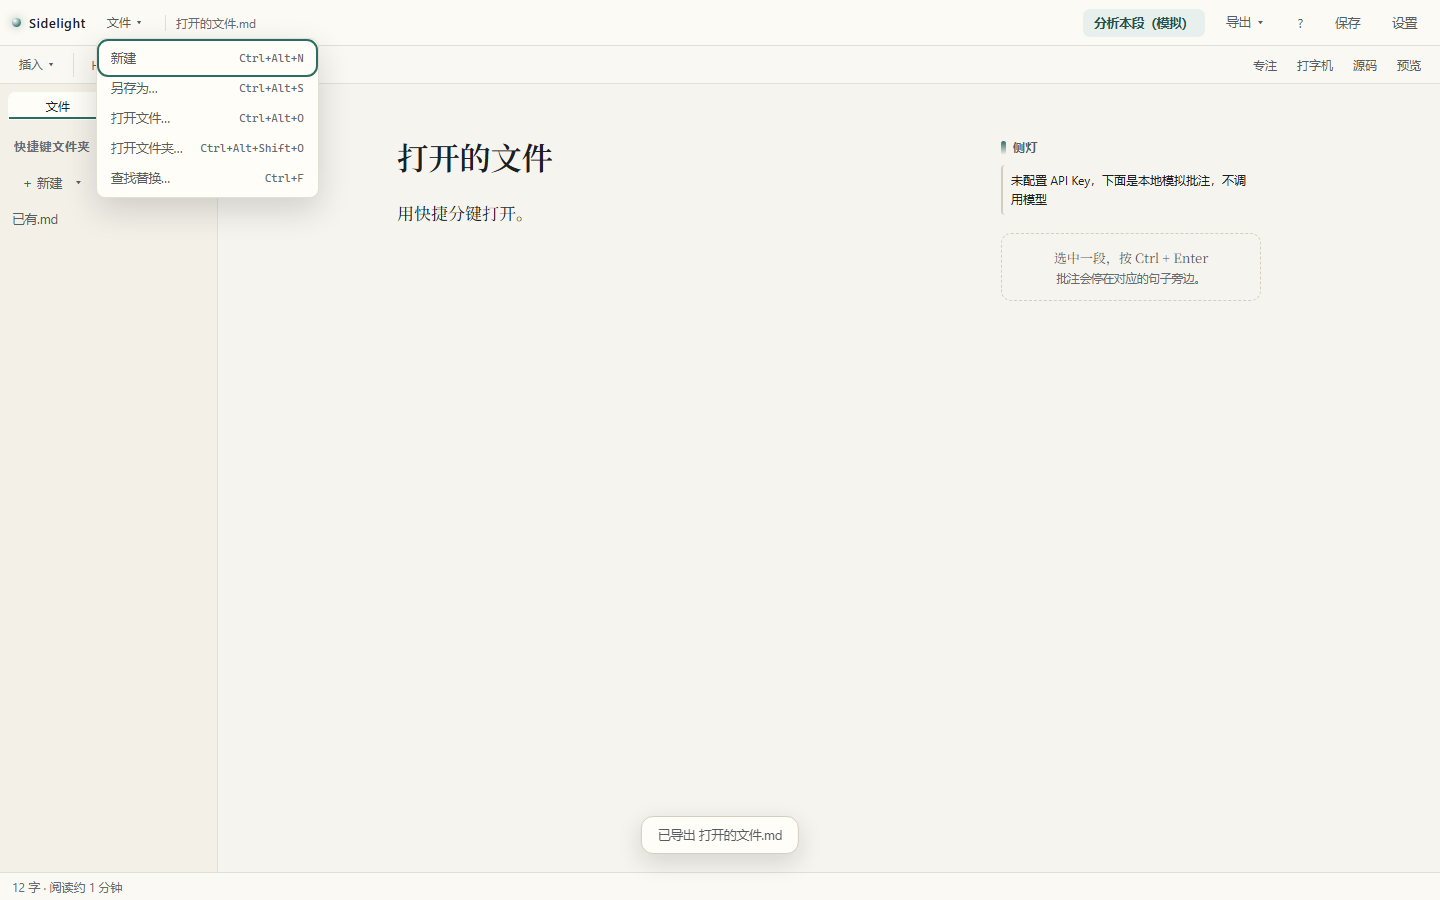
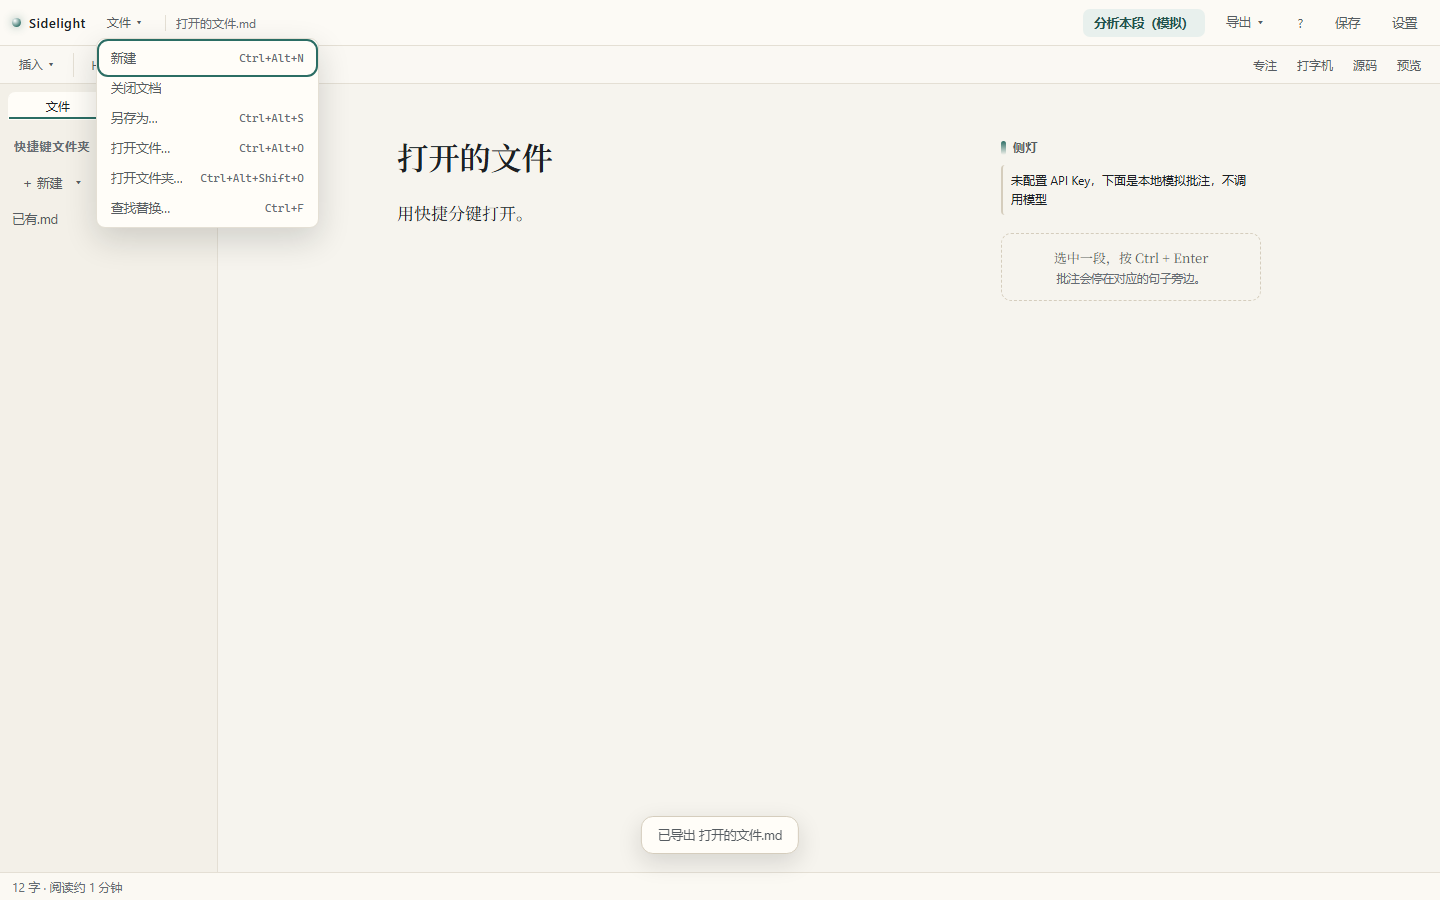
fix: blank first start, close document, save into workspace; 0.32.1

Changed region(s): [[0.0625, 0.1556, 0.2188, 0.2489], [0.0625, 0.0933, 0.125, 0.1556], [0.1875, 0.0933, 0.2188, 0.1244]]

diff --git a/src/App.tsx b/src/App.tsx
@@ -414,21 +414,18 @@ export default function App() {
   // 草稿、文档名、frontmatter 一起恢复，避免刷新后元数据与文件名丢失
   const [initial] = useState(() => {
     const fallback = {
-      text: SAMPLE,
+      text: '',
       frontmatter: '',
       footnotes: '',
-      name: DEMO_DOC_NAME,
+      name: '未命名.md',
       savedAt: 0,
       readOnly: false,
     }
     try {
       const raw = localStorage.getItem(DOC_KEY)
-      if (!raw) {
-        const split = splitFrontmatter(SAMPLE)
-        const footnoteSplit = extractFootnotes(split.body)
-        return { ...fallback, text: footnoteSplit.body, frontmatter: split.frontmatter, footnotes: footnoteSplit.footnotes }
-      }
+      if (!raw) return fallback
       const parsed = JSON.parse(raw) as { text?: string; name?: string; savedAt?: number; readOnly?: boolean }
+      if (parsed.name === DEMO_DOC_NAME) return fallback
       const text = typeof parsed.text === 'string' ? parsed.text : raw
       const split = splitFrontmatter(text)
       const footnoteSplit = extractFootnotes(split.body)
@@ -436,7 +433,7 @@ export default function App() {
         text: footnoteSplit.body,
         frontmatter: split.frontmatter,
         footnotes: footnoteSplit.footnotes,
-        name: parsed.name ?? DEMO_DOC_NAME,
+        name: parsed.name ?? '未命名.md',
         savedAt: typeof parsed.savedAt === 'number' ? parsed.savedAt : 0,
         // 宿主 argv 打开的文件是只读的：保存只能另存为，不能假装写回原文件
         readOnly: parsed.readOnly === true,
@@ -2364,11 +2361,18 @@ export default function App() {
   /** 新建：有真实文件夹就建空文件并刷新树快照；示例/空态只换内存文档 */
   const startNewDocument = useCallback(async () => {
     await waitForHostSave()
+    // 新建/关闭文档：始终从空白未命名文档开始，不替用户在文件夹里建文件
+    loadIntoEditor('', '未命名.md', null)
+    requestAnimationFrame(() => document.querySelector<HTMLElement>('.ProseMirror')?.focus())
+  }, [loadIntoEditor, waitForHostSave])
+
+  /** 新建前先走同一套未保存确认；取消则什么都不做 */
+  const createWorkspaceFile = useCallback(async () => {
+    await waitForHostSave()
     const space = workspaceRef.current
-    const root = space ? space.rootHandle : null
+    const root = space?.rootHandle
     if (!space || !root || space.root?.kind !== 'dir') {
       loadIntoEditor('', '未命名.md', null)
-      // 纯键盘流程：新建后直接能打字
       requestAnimationFrame(() => document.querySelector<HTMLElement>('.ProseMirror')?.focus())
       return
     }
@@ -2382,14 +2386,21 @@ export default function App() {
       saveTargetRef.current = { handle, name }
       await refreshTree({ mode: 'adopt', activePath: path })
       show(`已新建 ${name}`)
-      // 纯键盘流程：新建后直接能打字
+      show(`已新建 ${name}`)
       requestAnimationFrame(() => document.querySelector<HTMLElement>('.ProseMirror')?.focus())
     } catch (error) {
       setNotice({ text: `新建失败：${reasonOf(error)}。`, kind: 'error' })
     }
-  }, [loadIntoEditor, nextNewName, refreshTree, show])
+  }, [loadIntoEditor, nextNewName, refreshTree, show, waitForHostSave])
 
-  /** 新建前先走同一套未保存确认；取消则什么都不做 */
+  const newFileInWorkspace = useCallback(() => {
+    if (dirty) {
+      setPendingSwitch({ text: '', name: '未命名.md', file: null, after: () => void createWorkspaceFile() })
+      return
+    }
+    void createWorkspaceFile()
+  }, [createWorkspaceFile, dirty])
+
   const newDocument = useCallback(() => {
     if (dirty) {
       setPendingSwitch({ text: '', name: '未命名.md', file: null, after: () => void startNewDocument() })
@@ -2504,6 +2515,25 @@ export default function App() {
   )
 
   /** 真正写盘：有句柄写句柄，没有就弹保存位置；调用前已经过差异门 */
+  /** 有真实工作区时，无句柄保存落到根目录，不弹系统另存为 */
+  const saveIntoWorkspace = useCallback(
+    async (normalized: string, withEol: string): Promise<boolean> => {
+      const space = workspaceRef.current
+      const root = space?.rootHandle
+      if (!space || !root || space.root?.kind !== 'dir') return false
+      const name = nextNewName(space)
+      const handle = await root.getFileHandle(name, { create: true })
+      const file: WorkspaceFileNode = { kind: 'file', name, path: `${space.name}/${name}`, handle }
+      await writeNode(file, withEol)
+      finishSaved(name, { handle, name }, normalized, withEol)
+      setActiveFile(file)
+      await refreshTree({ mode: 'adopt', activePath: file.path })
+      setNotice({ text: `已保存到 ${name}`, kind: 'info', persist: true })
+      return true
+    },
+    [finishSaved, nextNewName, refreshTree],
+  )
+
   const performCommit = useCallback(
     async (normalized: string, withEol: string, keepLosses = false) => {
       setDraftShown(false)
@@ -2585,6 +2615,7 @@ export default function App() {
           return ok
         }
 
+        if (await saveIntoWorkspace(normalized, withEol)) return true
         const result = await saveAsFile(docName, withEol)
         if (result === null) {
           // 用户取消：不留「已保存」的假象
@@ -2610,7 +2641,7 @@ export default function App() {
         return false
       }
     },
-    [activeFile, docName, finishSaved, saveBlob],
+    [activeFile, docName, finishSaved, saveBlob, saveIntoWorkspace],
   )
 
   const currentMarkdown = useCallback(() => {
@@ -4108,6 +4139,7 @@ export default function App() {
         </div>
         <FileMenu
           onNew={newDocument}
+          onCloseDocument={newDocument}
           onSaveAs={() => saveAsCopyRef.current()}
           onOpenFile={() => void openSingleFile()}
           onOpenFolder={() => void openFolder()}
@@ -4473,7 +4505,7 @@ export default function App() {
             collapsed={treeCollapsed}
             onToggle={() => setTreeCollapsed((value) => !value)}
             onOpenFolder={openFolder}
-            onNewFile={newDocument}
+            onNewFile={newFileInWorkspace}
             onNewFolder={() => void createFolder()}
             onRefresh={() => void refreshTree()}
             onDeleteFile={(file) => void removeFile(file)}

diff --git a/src/components/FileMenu.tsx b/src/components/FileMenu.tsx
@@ -4,6 +4,7 @@ type RecentItem = { id: string; seq: number; name: string; dir: string }
 
 type Props = {
   onNew: () => void
+  onCloseDocument: () => void
   onSaveAs: () => void
   onOpenFile: () => void
   onOpenFolder: () => void
@@ -16,8 +17,9 @@ type Props = {
   onClearRecent: () => Promise<boolean>
 }
 
-const ITEMS: Array<{ label: string; keys: string; keyshortcuts: string; action: 'new' | 'saveAs' | 'openFile' | 'openFolder' | 'find' }> = [
+const ITEMS: Array<{ label: string; keys: string; keyshortcuts: string; action: 'new' | 'closeDocument' | 'saveAs' | 'openFile' | 'openFolder' | 'find' }> = [
   { label: '新建', keys: 'Ctrl+Alt+N', keyshortcuts: 'Control+Alt+N', action: 'new' },
+  { label: '关闭文档', keys: '', keyshortcuts: '', action: 'closeDocument' },
   { label: '另存为…', keys: 'Ctrl+Alt+S', keyshortcuts: 'Control+Alt+S', action: 'saveAs' },
   { label: '打开文件…', keys: 'Ctrl+Alt+O', keyshortcuts: 'Control+Alt+O', action: 'openFile' },
   { label: '打开文件夹…', keys: 'Ctrl+Alt+Shift+O', keyshortcuts: 'Control+Alt+Shift+O', action: 'openFolder' },
@@ -30,6 +32,7 @@ const ITEMS: Array<{ label: string; keys: string; keyshortcuts: string; action: 
  */
 export function FileMenu({
   onNew,
+  onCloseDocument,
   onSaveAs,
   onOpenFile,
   onOpenFolder,
@@ -75,6 +78,11 @@ export function FileMenu({
   const run = (action: (typeof ITEMS)[number]['action']) => {
     if (action === 'new') {
       onNew()
+      closeTo('editor')
+      return
+    }
+    if (action === 'closeDocument') {
+      onCloseDocument()
       closeTo('editor')
       return
     }

diff --git a/README.md b/README.md
@@ -93,9 +93,9 @@ macOS 首次打开（未签名时按系统版本二选一，**每次更新后重
 - 无遥测，启动不联网；联网只发生在用户点「联网核对」并配好搜索服务时。
 ## 依赖与体积
 
-首屏 gzip 从 364,960 B 降到 **285,997 B（−21.6%）**：KaTeX 的 JS/CSS 拆成独立 chunk（gzip 约 84 KB：JS 76,553 B + CSS 7,365 B）按需加载，首屏不再包含；本轮首屏临时上限 **286,000 B**（数据安全例外，STATE 记理由，余 3 B）；安装包内部预算 820,000 B（硬线 850,000 B 未调）。安装包、便携 zip 与 macOS zip 的字节和 SHA256 **见 Release 页的 `SHA256SUMS-0.32.0.txt`**。KaTeX 字体 213,664 B（15 个文件，只发 woff2；另 1 个 face 内联）。
+首屏 gzip 从 364,960 B 降到 **285,783 B（−21.7%）**：KaTeX 的 JS/CSS 拆成独立 chunk（gzip 约 84 KB：JS 76,553 B + CSS 7,365 B）按需加载，首屏不再包含；本轮首屏临时上限 **286,000 B**（数据安全例外，STATE 记理由，余 217 B）；安装包内部预算 820,000 B（硬线 850,000 B 未调）。安装包、便携 zip 与 macOS zip 的字节和 SHA256 **见 Release 页的 `SHA256SUMS-0.32.1.txt`**。KaTeX 字体 213,664 B（15 个文件，只发 woff2；另 1 个 face 内联）。
 
-**KaTeX 为什么现在按需加载**：`@tiptap/extension-mathematics` 顶层静态 `import katex` 曾是首屏 365 KB 的大头；0.24.0 用 `resolve.alias` 的数组正则把裸 `katex` 指到 `src/lib/katexLazy.ts`，再让 loader 用深路径动态加载 KaTeX 的 JS 与 CSS。首屏不再含 KaTeX；265 KiB（271,360 B）不可达，实测 285,997 B（0.32.0），原因见 [ADR-0012](docs/adr/0012-katex-lazy-loading.md)。构建仍用 `chunkSizeWarningLimit: 1200`（主 chunk 约 888 KB）。
+**KaTeX 为什么现在按需加载**：`@tiptap/extension-mathematics` 顶层静态 `import katex` 曾是首屏 365 KB 的大头；0.24.0 用 `resolve.alias` 的数组正则把裸 `katex` 指到 `src/lib/katexLazy.ts`，再让 loader 用深路径动态加载 KaTeX 的 JS 与 CSS。首屏不再含 KaTeX；265 KiB（271,360 B）不可达，实测 285,783 B（0.32.1），原因见 [ADR-0012](docs/adr/0012-katex-lazy-loading.md)。构建仍用 `chunkSizeWarningLimit: 1200`（主 chunk 约 888 KB）。
 
 运行时依赖只有两组，都不是为省几行代码引入的：
 
@@ -104,7 +104,7 @@ macOS 首次打开（未签名时按系统版本二选一，**每次更新后重
 
 开发期另有 `playwright-core`（截图与端到端验证）与 `@types/node`（测试）。
 
-宿主层另有 `host/`：用系统自带 `csc.exe` 编 C# 宿主，经 WebView2 SDK 加载同一份 `dist`，只在宿主层，不进运行时依赖。宿主自己起回环 HTTP 服务（固定端口 `127.0.0.1:47821`），origin 跨重启不变，首屏 FCP 304 ms（**本机一次测量，非跨机承诺**）、转发 reload 52–64 ms；窗口、单实例、argv 打开文件、真实文件夹读写都已跑通。安装包与便携 zip 的字节和 SHA256 见 Release 页的 `SHA256SUMS-0.32.0.txt`（内部预算 820,000 B，硬线 850,000 B 不动），卸载不删 `%LOCALAPPDATA%\Sidelight` 里的用户数据，见 [`packaging/README.md`](packaging/README.md)、[ADR-0004](docs/adr/0004-webview2-host-before-admin.md) 与 [ADR-0005](docs/adr/0005-loopback-fixed-origin.md)。
+宿主层另有 `host/`：用系统自带 `csc.exe` 编 C# 宿主，经 WebView2 SDK 加载同一份 `dist`，只在宿主层，不进运行时依赖。宿主自己起回环 HTTP 服务（固定端口 `127.0.0.1:47821`），origin 跨重启不变，首屏 FCP 304 ms（**本机一次测量，非跨机承诺**）、转发 reload 52–64 ms；窗口、单实例、argv 打开文件、真实文件夹读写都已跑通。安装包与便携 zip 的字节和 SHA256 见 Release 页的 `SHA256SUMS-0.32.1.txt`（内部预算 820,000 B，硬线 850,000 B 不动），卸载不删 `%LOCALAPPDATA%\Sidelight` 里的用户数据，见 [`packaging/README.md`](packaging/README.md)、[ADR-0004](docs/adr/0004-webview2-host-before-admin.md) 与 [ADR-0005](docs/adr/0005-loopback-fixed-origin.md)。
 
 ## 跑起来
 

diff --git a/docs/CHANGELOG.md b/docs/CHANGELOG.md
@@ -2,6 +2,18 @@
 
 版本号在 `package.json`。每发一版加一节，最近的在上面。
 
+## 0.32.1 — 2026-11-16
+
+用户报的三个问题：首次启动空白、关闭文档、工作区里的原地保存。
+
+- 首次启动打开一篇空的 `未命名.md`，不再加载旧 localStorage 里的示例名；新建立刻可用。
+- 文件菜单新增「关闭文档」；脏文档走现有三选一（取消 / 存草稿 / 丢弃）。
+- 有工作区且当前文档还没有句柄时，`Ctrl+S` 直接在根目录建 `未命名.md`（重名则 `未命名 2.md`），不弹系统另存为；显式「另存为」仍走系统 picker。
+- 测试：`npm test` 17 文件 **248** 条；`session` 18/18、`newfile` 23/23、`keyboard` 49/49。
+- 首屏 gzip **285,783 B**（临时预算 286,000 B，余 217 B）。
+- UNVERIFIED：真实重开权限、150%/200% 缩放屏、真模型提示词质量、真实 DeepSeek 搜索（无 Key）、macOS 快捷键、旧会话已丢弃批注不可恢复。
+- 体积与 SHA256 见 Release 页的 `SHA256SUMS-0.32.1.txt`。
+
 ## 0.32.0 — 2026-11-16
 
 七项修复 + Typora 快速键；核心是会话恢复与宿主批注协议。
